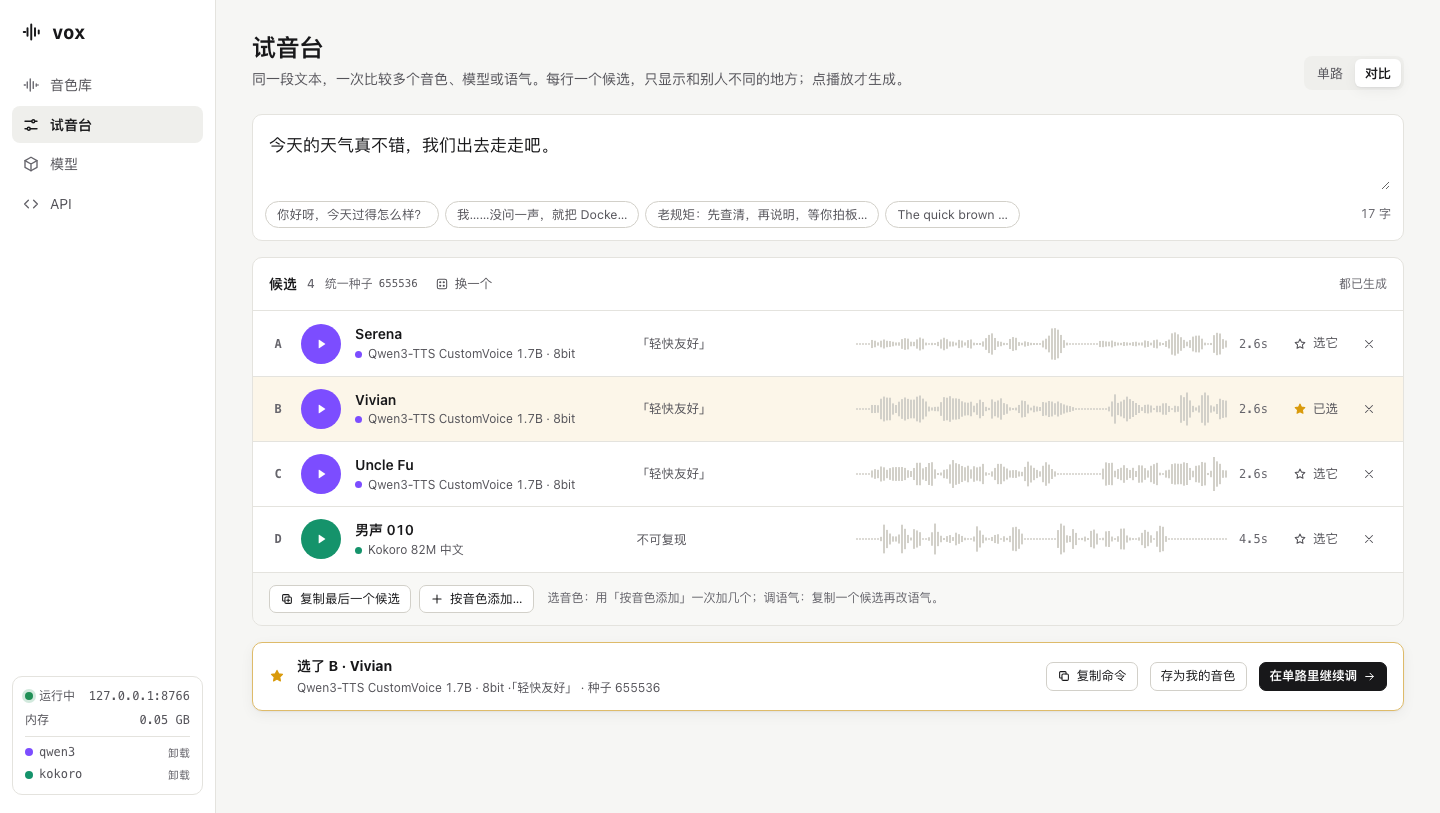
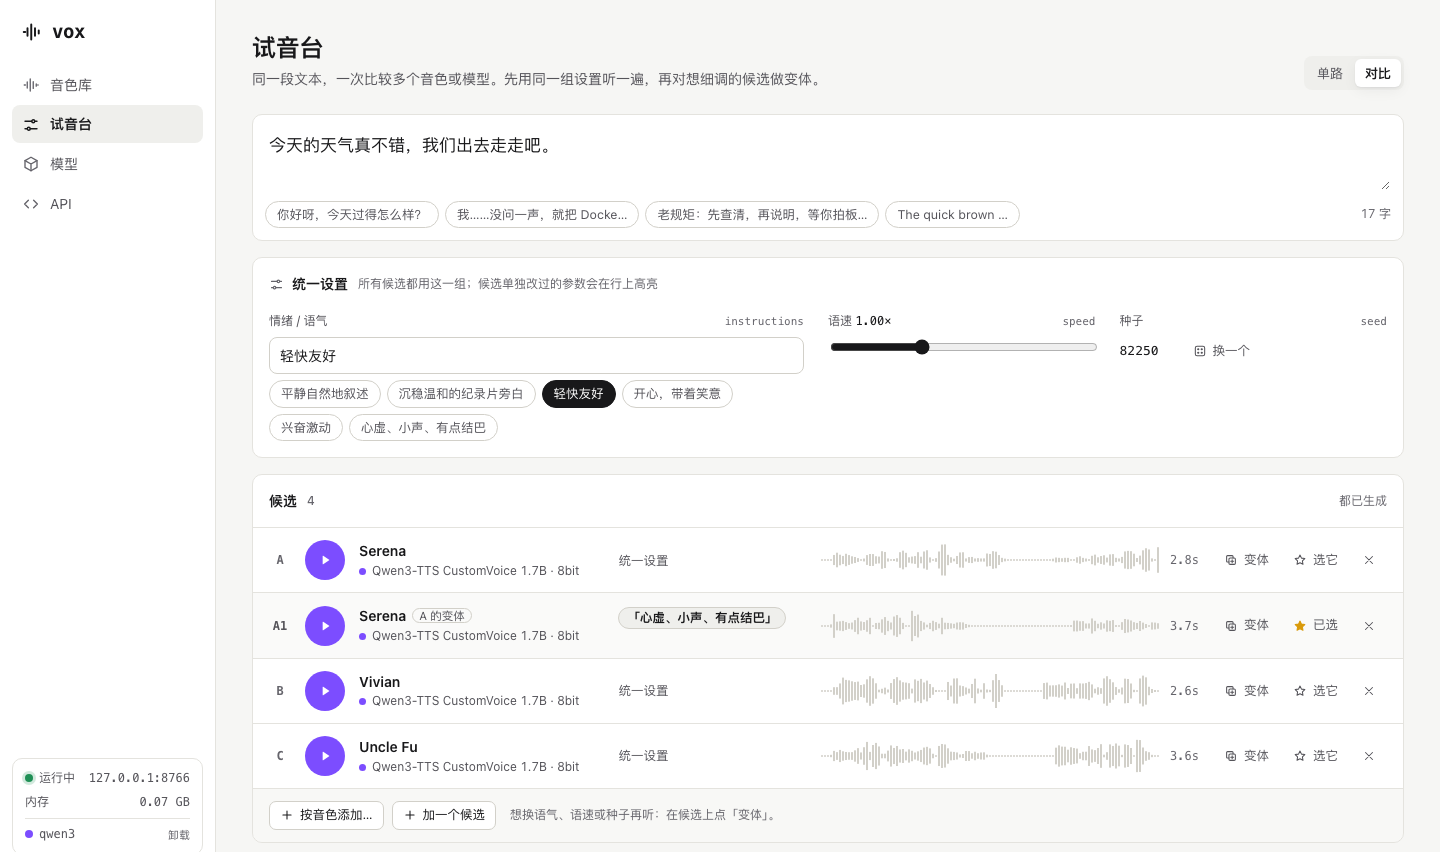
README：换上新的对比模式截图；修复首次进入对比模式时报错
- 新截图用干净的临时数据拍：统一设置「轻快友好」、A 的变体 A1 单独换成「心虚、小声、有点结巴」、四条都已生成、选中 A1。
- 修复：没有旧候选、也没有统一设置时（新用户第一次进入对比模式），迁移代码读取空候选的模型信息而报错，页面空白。
  截图脚本在全新浏览器里复现并验证修复。

验证：全新浏览器配置下进入对比模式无 JS 错误，4 个候选并行排队生成完成；40 个离线测试通过。

diff --git a/vox/web/app.js b/vox/web/app.js
@@ -497,7 +497,7 @@ function ensureCands() {
   S.cands = (S.cands || []).filter(c => M(c.model));
   if (!S.cmpBase) {
     // 旧版每个候选各存一整套参数：取第一个候选的语气和语速作统一设置，其他候选只保留和它不同的部分
-    const tone = c => !M(c.model).caps.design && M(c.model).params.includes('instructions'), f = S.cands.find(tone) || S.cands[0] || {};
+    const tone = c => !!M(c.model) && !M(c.model).caps.design && M(c.model).params.includes('instructions'), f = S.cands.find(tone) || S.cands[0] || {};
     S.cmpBase = { instructions: tone(f) ? f.instructions || '' : '', speed: f.speed ?? 1 };
     S.cands.forEach(c => {
       if (!M(c.model).caps.design && (!tone(c) || (c.instructions || '') === S.cmpBase.instructions)) c.instructions = null;

diff --git a/README.md b/README.md
@@ -7,7 +7,7 @@ English · [中文](README.zh-CN.md)
 
 > **Preview (0.1).** Works day-to-day on the author's Mac, but expect rough edges. The web UI and CLI messages are currently **Chinese only**; an English UI is planned. Local models need **macOS on Apple Silicon**.
 
-![Compare mode: one line of text, several voices side by side](docs/images/compare.png)
+![Compare mode: one text, one shared set of settings, several voices side by side, plus a variant of A with its own tone](docs/images/compare.png)
 
 ## What it does
 

diff --git a/README.zh-CN.md b/README.zh-CN.md
@@ -7,7 +7,7 @@
 
 > **预览版（0.1）。** 作者日常在用，但还有不少粗糙的地方。网页界面和命令行提示目前**只有中文**，英文界面在计划中。本地模型需要 **Apple Silicon 的 Mac**。
 
-![对比模式：同一段文本，几个音色排成清单比较](docs/images/compare.png)
+![对比模式：同一段文本、同一组设置，几个音色排成清单并排比较；A1 是 A 的变体，单独换了语气](docs/images/compare.png)
 
 ## 能做什么
 
